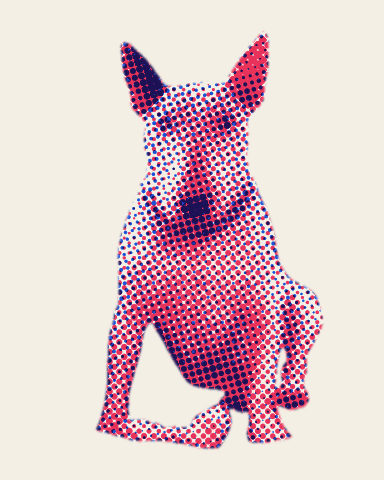
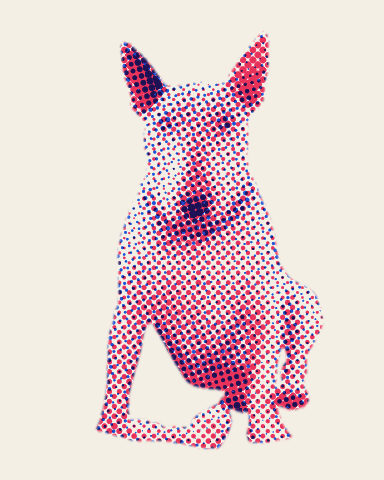
docs(halftone): record that every shape keeps the tone
Claude-Session: https://claude.ai/code/session_01GHJQKzEU71N6k5xjz4jhkt

Changed region(s): [[0.25, 0.0625, 0.8438, 0.9375]]

diff --git a/docs/design-decisions.md b/docs/design-decisions.md
@@ -1554,3 +1554,15 @@ The template's decisions (platforms, the core's test binary, the memory cap, the
   black). *Reason for the angles:* the three most visible cmyk screens (cyan 15, black 45, magenta 75) are the classic 30
   degrees apart, the most a square screen allows for three, and green, the brightest channel, takes 45 where a screen shows
   least, as black does in cmyk. *Consequence:* the separation logic is `Inks::rgb` in `ops/inks.rs`, beside cmyk and spot.
+- **Every `halftone` shape keeps the tone, through one spot function (halftone batch, 2026-11-16).** A shape is a spot
+  function on its cell (`Spot` in `ops/inks.rs`: a value per place) and the level whose area in the cell equals the ink; a
+  pixel is inked where the value is below the level, and the feathered edge is centred on the level so it keeps the area. The
+  round dot's level is `sqrt(a / pi)` cells up to `a = pi / 4` (dots touch) and above that the radius whose circle clipped to
+  the cell has area `a`, bisected to 1e-6 cells (never past the corner, so `footprint` holds); `line` is `a / 2` from the
+  row's centreline. Later shapes are variants with their own value and level. *Reason:* the dot was `sqrt(a / 2)` cells, so
+  it printed pi / 2 of the tone (mean ink 0.74 at tone 0.5, 0.95 at 0.75), against the doc and the coverage oracle; `dot_gain`
+  assumes coverage = tone. *Cost:* every existing halftone picture gets lighter (measured on the bullterrier photo: the
+  `risograph` look's mean brightness 0.415 to 0.502, the halftone example's 0.471 to 0.572): demo 06, demo 10's night look and
+  scene pieces with halftone change (scene sees it at its next image pin); the dots touch at 78.5 % tone, not at half (that
+  is `euclidean`'s). The coverage oracle (black on white, `cell` 20, `feather` 1, `sigma` 0, flat greys at 0.1 to 0.9)
+  now holds within 0.008 for `dot` and `line`.
